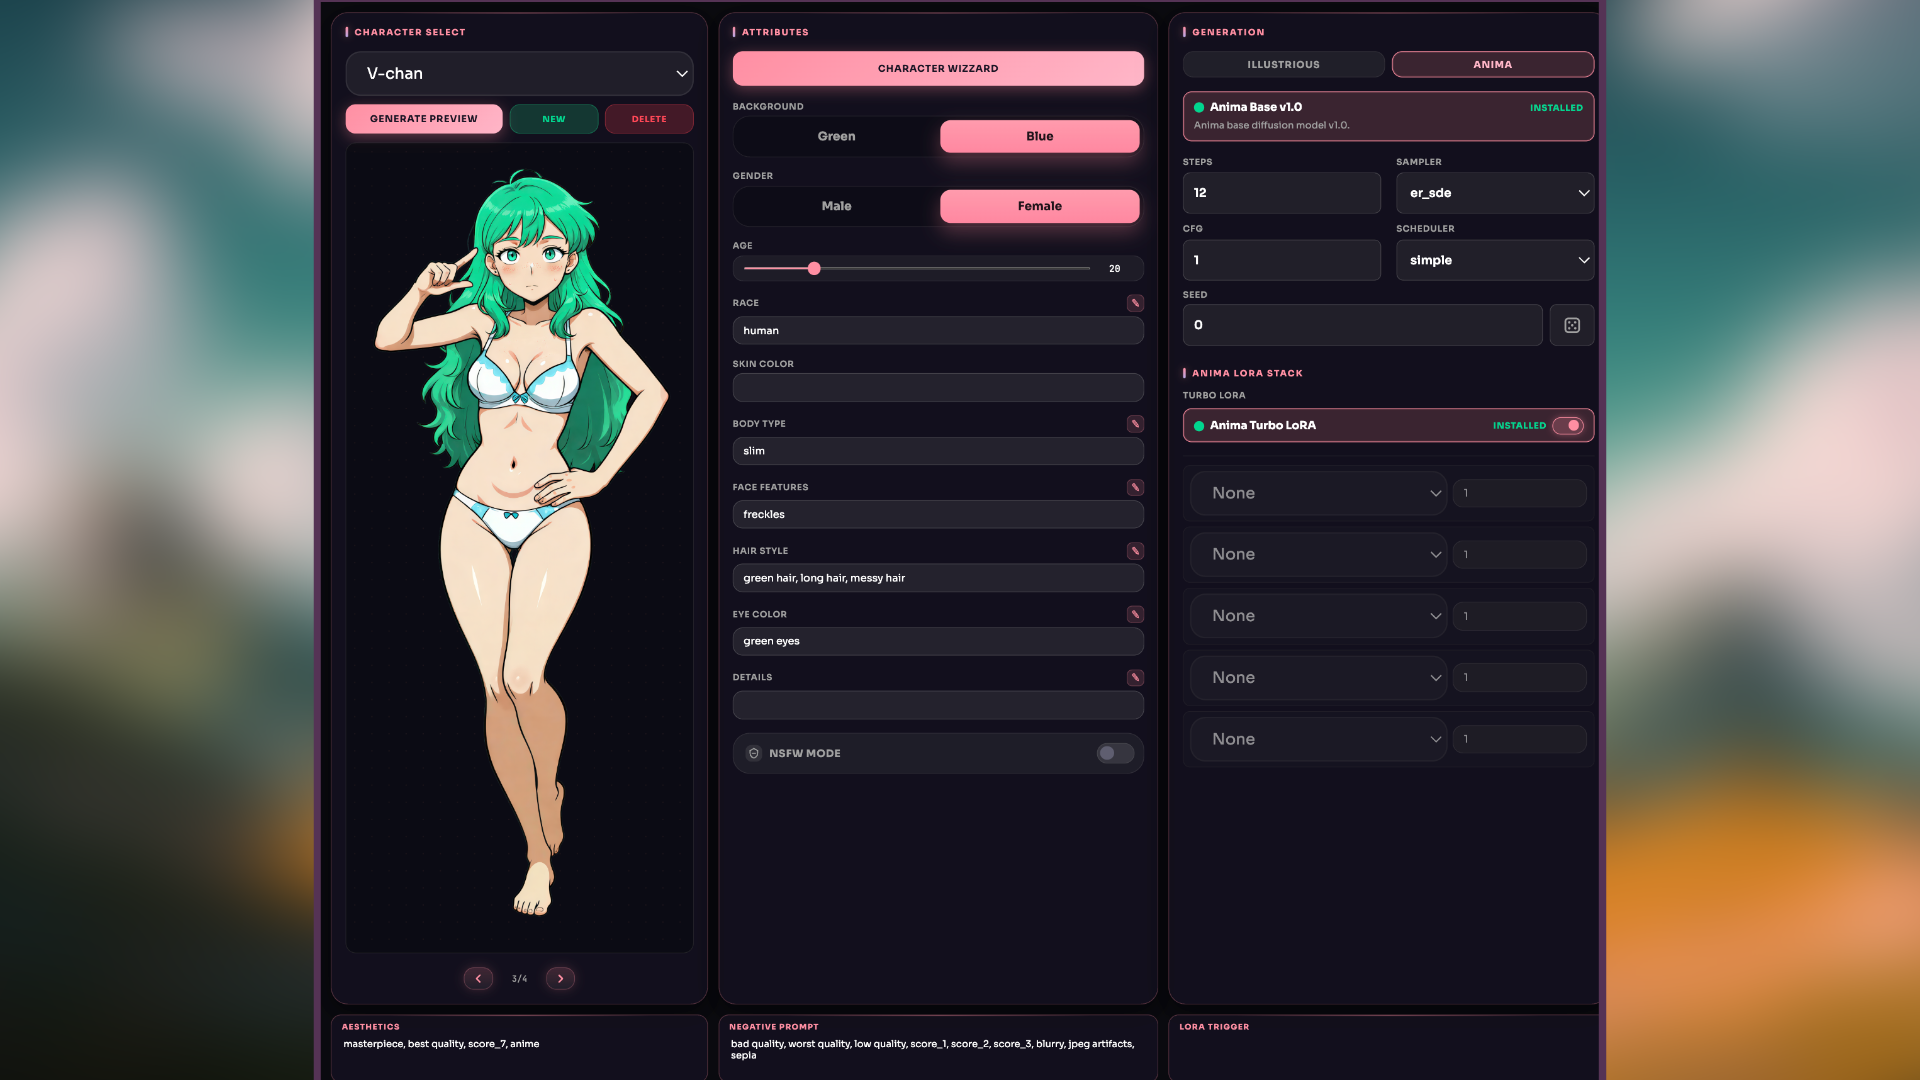
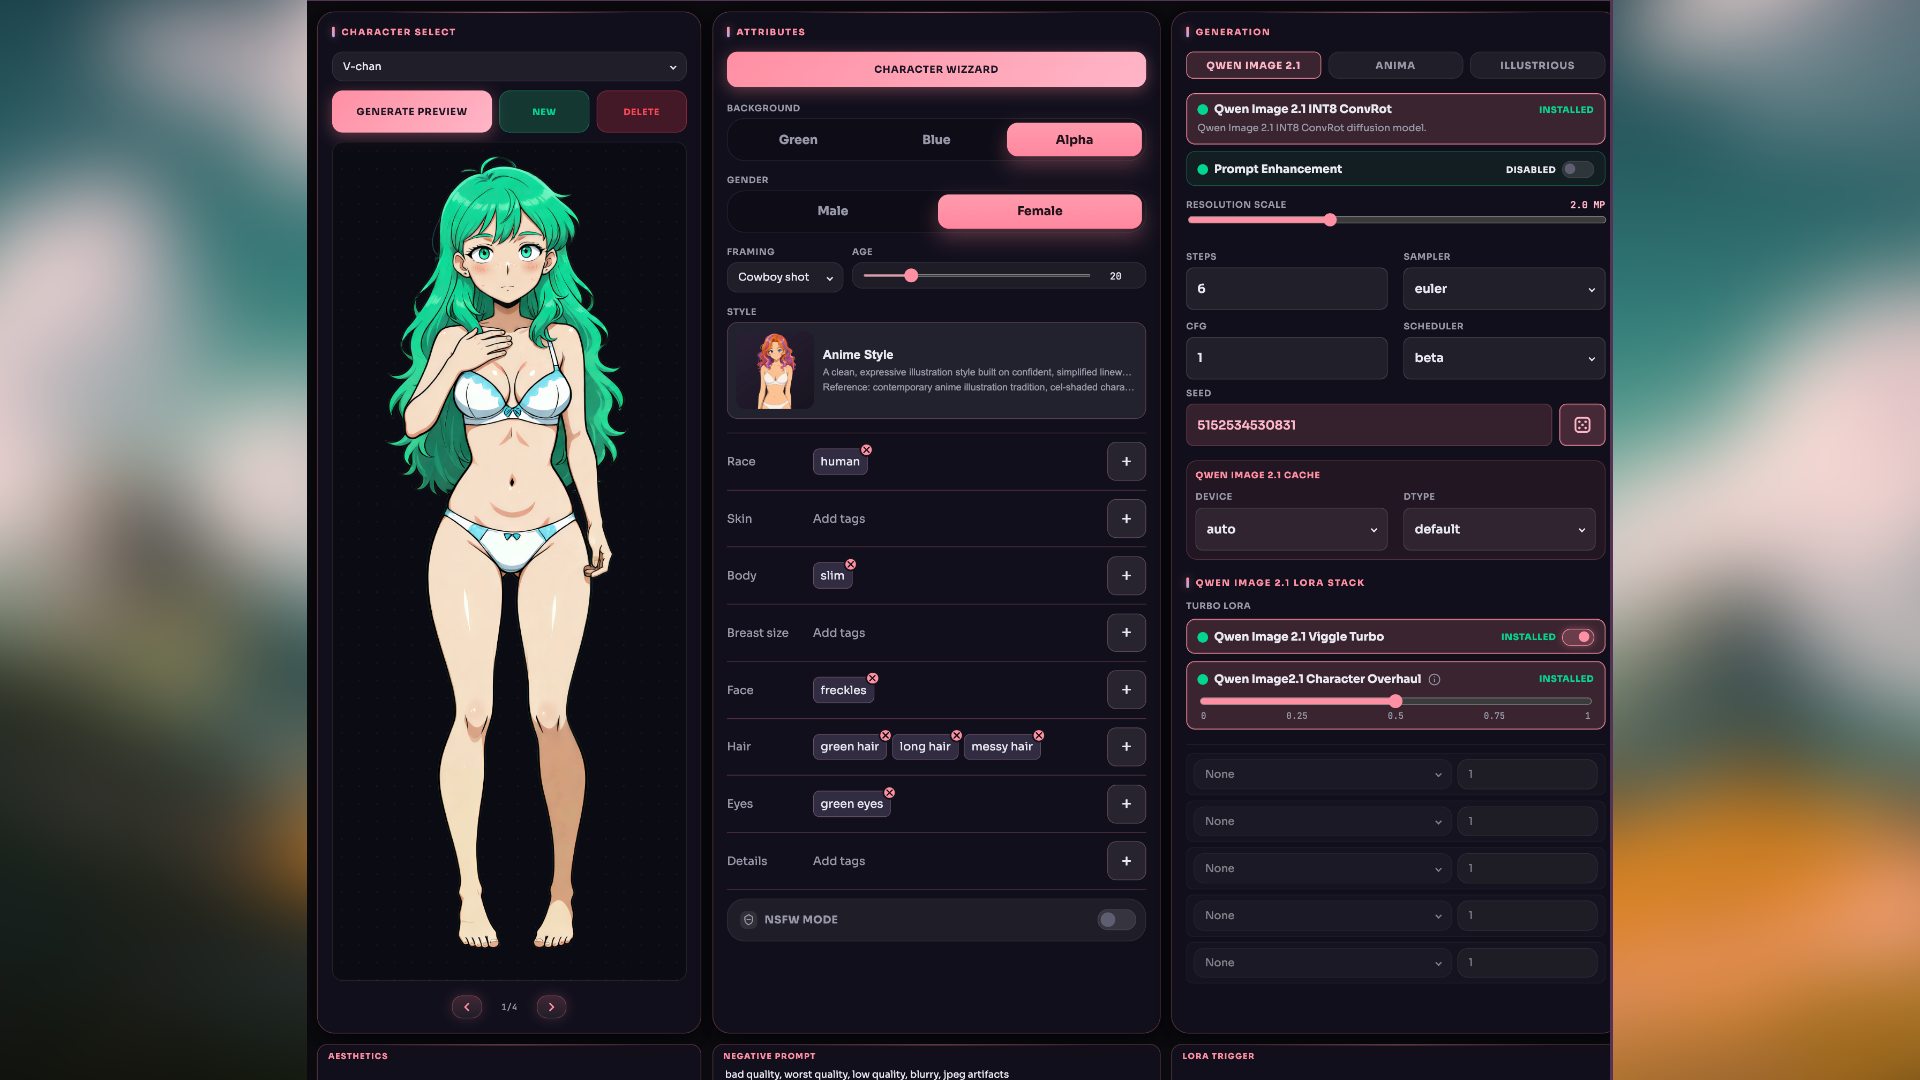
Add visual walkthroughs to the README

diff --git a/README.md b/README.md
@@ -67,6 +67,18 @@ Choose wisely, but in the end nobody is stopping you from trying them all and de
 
 And then, at the very bottom of the widget, you can click the big **Download** button and the magic will do everything by itself.
 
+<table>
+<tr>
+<td width="50%" align="center" valign="top">
+<img src="images/v3.3/controlcenter.webp" width="100%" alt="Downloading model components in VNCCS Control Center">
+</td>
+<td width="50%" valign="top">
+<strong>Let the Control Center do the downloading!</strong><br>
+Choose the model components you need and press <strong>Download / Update</strong>. The model cards show download progress and installation status, so you can see when everything is ready for your character adventures.
+</td>
+</tr>
+</table>
+
 Next, go to **VNCCS Character Creator V2**.
 
 ![Header](images/v3/ReadMe2.png)
@@ -91,6 +103,36 @@ Race presets include natural-language descriptions of their distinctive anatomy,
 
 Click the **Style** card to open the style library. Built-in styles and their 1024×1024 WebP previews ship with the node in `character_template/character_styles.json` and `character_template/style_previews/`. Style prompts describe artistic rendering; background, pose and framing remain separate Creator settings.
 
+<table>
+<tr>
+<td width="50%" align="center" valign="top">
+<img src="images/v3.3/Styles_anima.webp" width="100%" alt="Choosing an Anima style and generating a character preview">
+</td>
+<td width="50%" valign="top">
+<strong>Give your character a new drawing style!</strong><br>
+With <strong>Anima</strong> selected, open the style library, pick a style card, and press <strong>GENERATE PREVIEW</strong>. Watch the preview appear with the chosen style. Try a few looks before committing to a whole set of sprites!
+</td>
+</tr>
+<tr>
+<td width="50%" align="center" valign="top">
+<img src="images/v3.3/Styles_anima_blend.webp" width="100%" alt="Adding a second Anima style and previewing the blended result">
+</td>
+<td width="50%" valign="top">
+<strong>One style is good. What about two?</strong><br>
+Click the <strong>+</strong> card beside the first style and choose another one from the library. Generate a new preview to see how Anima combines them. The animation starts with the first style's preview and ends with the mixed result. Time for a little experimenting, hehe!
+</td>
+</tr>
+<tr>
+<td width="50%" align="center" valign="top">
+<img src="images/v3.3/styles_QI2.webp" width="100%" alt="Searching and filtering Qwen Image 2.1 styles before generating a preview">
+</td>
+<td width="50%" valign="top">
+<strong>Find your look with Qwen Image 2.1!</strong><br>
+Browse the style previews, search by name, or narrow the library with the category filter. Choose a style and press <strong>GENERATE PREVIEW</strong> with <strong>Qwen Image 2.1</strong> selected to try it on your character. So many looks to choose from!
+</td>
+</tr>
+</table>
+
 Choose **Custom style** or **New style** to enter a name, short description, reference and style prompt. **Save style** adds it to **My styles**; **Generate preview** saves it and renders only that style using the current character tags and generation settings, a square portrait and seed 0. **Resolution scale** controls the render quality before the preview is resized to 1024×1024. Previews are composited onto the same dark gradient as the style cards and saved as opaque WebP at quality 90 directly inside the node, rather than ComfyUI's output directory. User styles live in `character_template/character_styles.user.json`, with `user_*.webp` previews alongside the built-in images; these user files are excluded from Git and packaged updates.
 
 The **×** button in the upper-right corner of a user style card opens a deletion confirmation. Confirming removes its library entry and preview, if present. Built-in styles cannot be deleted. Deleting the selected style switches the Creator to its default style.
@@ -100,6 +142,18 @@ Style edits carry the `revision` returned by `/vnccs/character_styles`. A stale 
 If a user style changes during preview generation, the render returns HTTP 409 and preserves the previous preview. Generate the preview again for the updated style.
 
 A new little feature is the **GENERATE PREVIEW** button. It lets you see what the character will look like without restarting the whole generation. So press it already, and if you like everything, move on. If you want to make changes, edit the descriptions and press it again!
+
+<table>
+<tr>
+<td width="50%" align="center" valign="top">
+<img src="images/v3.3/character_preview.webp" width="100%" alt="Generating a character preview inside VNCCS Character Creator V2">
+</td>
+<td width="50%" valign="top">
+<strong>Meet your character before the big generation!</strong><br>
+Press <strong>GENERATE PREVIEW</strong> and watch the character appear in the Creator's preview panel. Check the face, hair, body, and overall look. Something does not feel right? Change the character descriptions and try again until you are happy with the result!
+</td>
+</tr>
+</table>
 
 Creator and Cloner run with the character settings restored from the workflow and save them to the selected character's profile. Restoring a workflow keeps its draft fields; it does not require a profile version. Storage locks and atomic writes protect the save, while unreadable configurations and metadata belonging to another character are rejected.
 
@@ -123,6 +177,18 @@ In **BG Remove**, you can choose a chroma key preset. **Balanced** is a very goo
 
 Ready? Then press **Run**! Now just wait, and the magic will do everything for you!
 ![Header](images/v3/ReadMe5.png)
+
+<table>
+<tr>
+<td width="50%" align="center" valign="top">
+<img src="images/v3.3/Pose_gen.webp" width="100%" alt="Pose guides and a generated character sprite appearing in the generation preview">
+</td>
+<td width="50%" valign="top">
+<strong>From a pose guide to a character sprite!</strong><br>
+After you press <strong>Run</strong>, the generation preview shows the pose guides and the finished character sprite as it becomes ready. Check how the character follows the pose and whether the proportions look right. Your character is getting ready to move into the story!
+</td>
+</tr>
+</table>
 
 ## Step 1.1: Character Cloner
 
@@ -165,6 +231,18 @@ You also have an option to clone any clothes from any picture! Open the **CLONE 
 
 The **GENERATE PREVIEW** button will help you see what your character will look like before starting the big and heavy generation of all poses.
 
+<table>
+<tr>
+<td width="50%" align="center" valign="top">
+<img src="images/v3.3/new_clothes.webp" width="100%" alt="Creating a costume, filling its fields with Clothes Wizzard, and generating an explorer outfit preview">
+</td>
+<td width="50%" valign="top">
+<strong>A new outfit, from idea to preview!</strong><br>
+Choose your character, press <strong>New</strong>, and give the costume a name. Open <strong>Clothes Wizzard</strong>, describe the outfit, and press <strong>FILL FIELDS</strong>. Here, a short explorer-clothes idea becomes descriptions for the top, bottom, shoes, head, and face. Check those fields, then press <strong>GENERATE PREVIEW</strong> to see the character dressed for an adventure. A hat, boots, goggles... ready to go!
+</td>
+</tr>
+</table>
+
 And that is all! Again, do not forget about **VNCCS Pose Studio**, and press **Run**!
 
 When you finish the first set, you can press **New** again and create as many outfits as you want!
@@ -189,6 +267,18 @@ In the **VNCCS Emotion Studio** widget, choose the character you are going to ma
 
 Now, in the huge list, click the emotions you need and add them to the selected ones. Also, if by some miracle you did not find what you need, you can add a **Custom** emotion and describe what you want yourself.
 
+<table>
+<tr>
+<td width="50%" align="center" valign="top">
+<img src="images/v3.3/emotions.webp" width="100%" alt="Selecting emotion cards and using search to find another expression in VNCCS Emotion Studio">
+</td>
+<td width="50%" valign="top">
+<strong>Pick the expressions your story needs!</strong><br>
+Click emotion cards to add them to the selected list above the library. Use the search field to find a particular expression without scrolling through every card. The animation builds a small selection of different moods. A little pout, a happy smile, maybe something more mischievous?
+</td>
+</tr>
+</table>
+
 After that, you again need to decide which model will do the generation.
 
 **Illustrious** is stable, but the variety of emotions depends very strongly on the exact character, style, and model. Not all emotions may come out equally well.
@@ -211,6 +301,18 @@ There is no ready-made recipe here. It all depends on the character and the sele
 For the first try, do not select all costumes and emotions at once. It will take a long time, and if the result does not satisfy you, it will be sad. Better find the optimal settings first, and then go all in!
 
 Press **Run**, and may luck be with you!
+
+<table>
+<tr>
+<td width="50%" align="center" valign="top">
+<img src="images/v3.3/emotions_gen.webp" width="100%" alt="Generating the yandere-smile expression across multiple character poses">
+</td>
+<td width="50%" valign="top">
+<strong>Now let your character show some feelings!</strong><br>
+Here, <strong>Qwen Image 2.1</strong> applies the selected <strong>yandere-smile</strong> expression to the character's poses. The pose cards update as each sprite is generated, while the progress bar shows the batch status. Check the faces before moving on to a bigger batch!
+</td>
+</tr>
+</table>
 
 At this point, the current VNCCS features end, but not for long! Planned features include animations, 3D environments and CG image creation inside them, character voice generation, and music track generation for your game or project.
 
